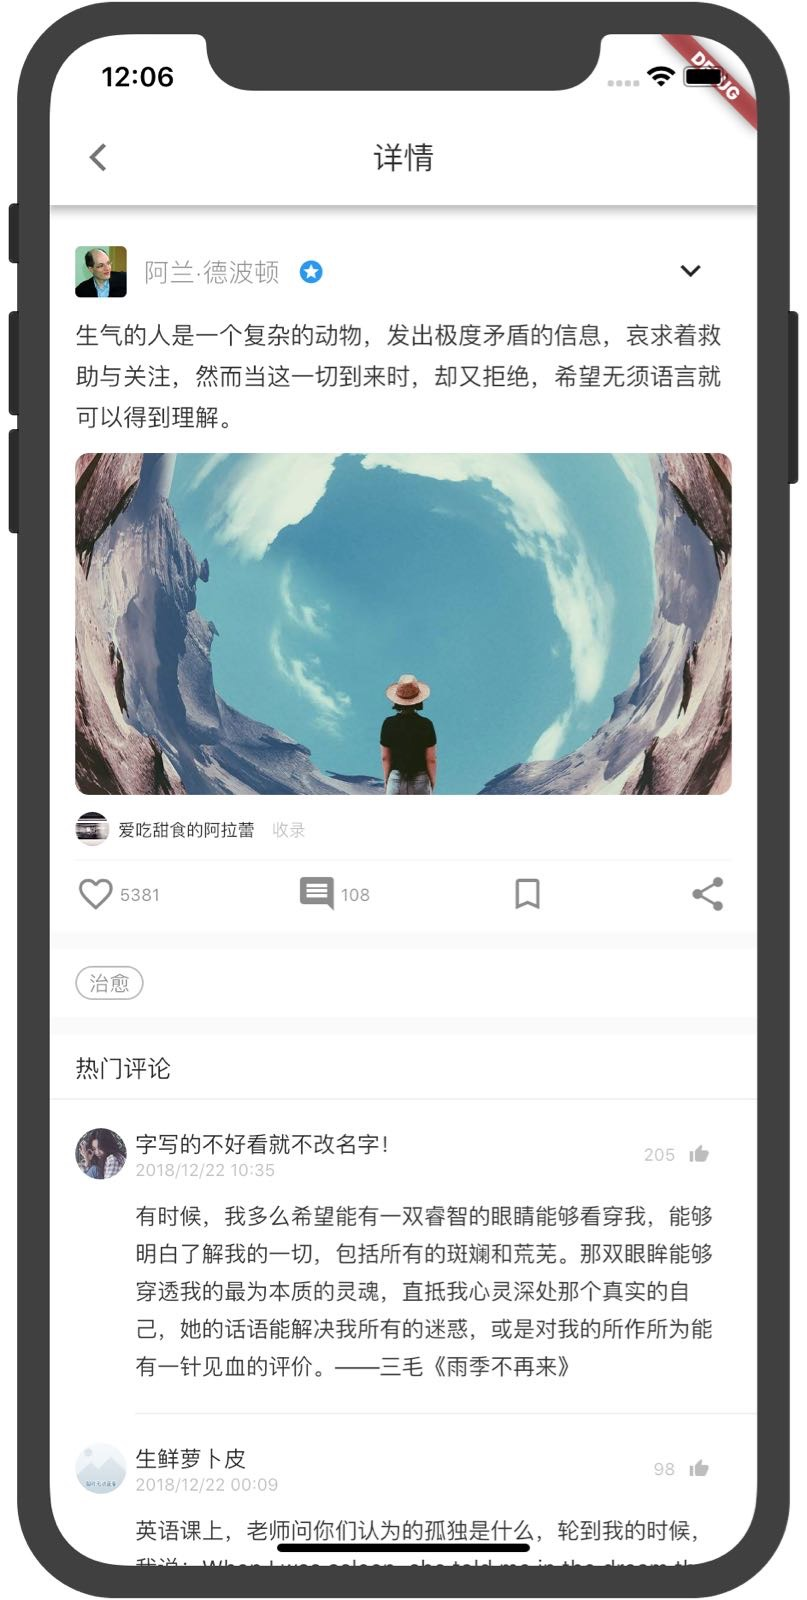
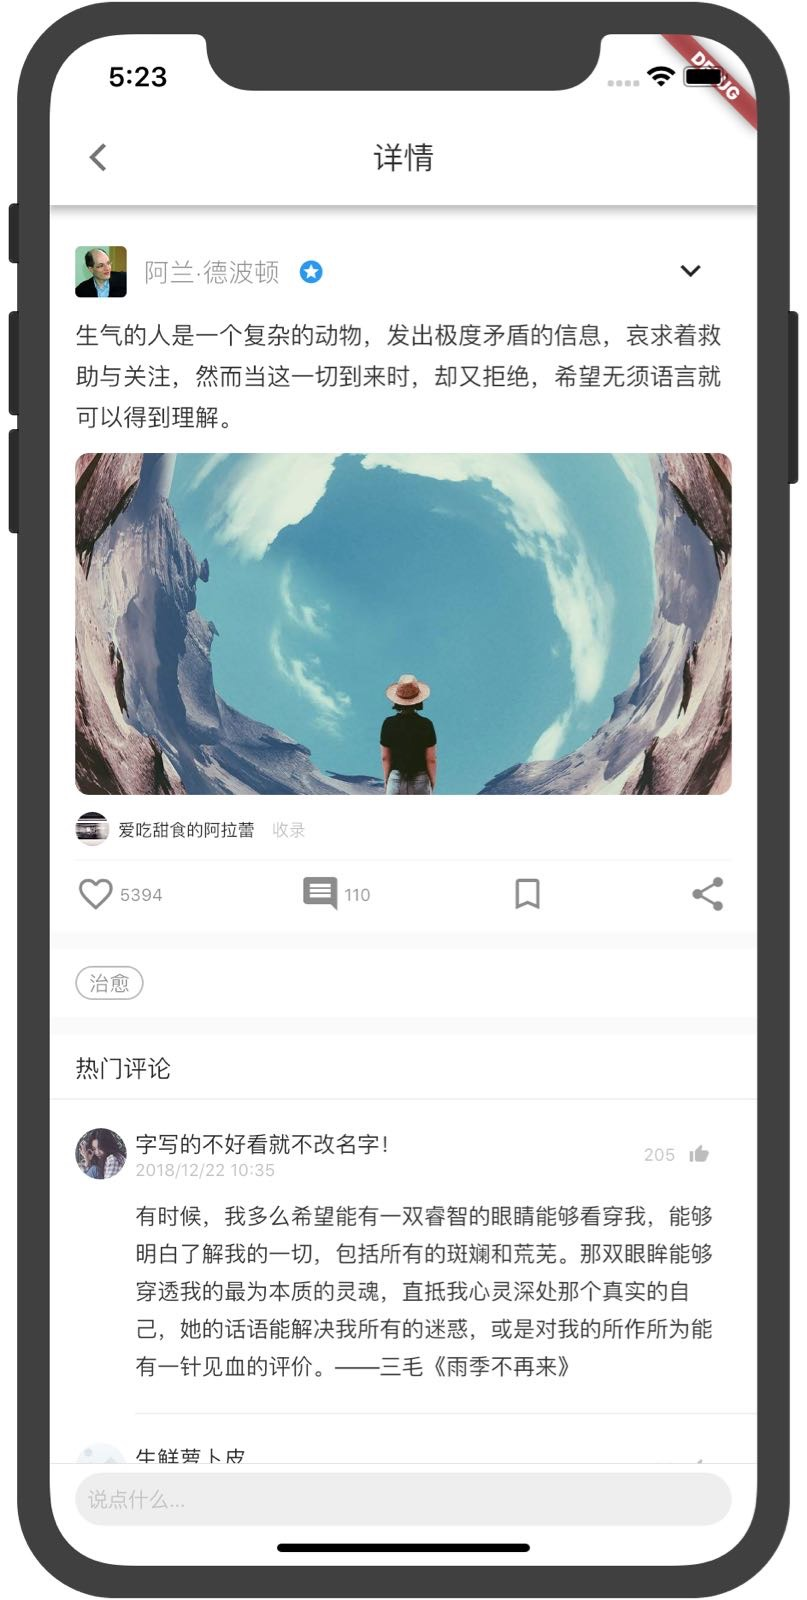
detail_page update

diff --git a/lib/index/pages/detail_page.dart b/lib/index/pages/detail_page.dart
@@ -1,4 +1,5 @@
 import 'package:flutter/material.dart';
+import 'package:flutter/cupertino.dart';
 import '../../utils/ui_util.dart';
 import '../../widgets/blank.dart';
 import '../../utils/color_util.dart';
@@ -94,29 +95,35 @@ class _DetailWidgetStateful extends State<DetailWidget> {
     JuDouModel model = snapshot.data['detail'];
     int itemCount = latest.length + 5;
     String endString = latest.isNotEmpty ? '- END -' : '快来添加第一条评论吧';
-    return Container(
-      child: ListView.builder(
-        itemBuilder: (context, index) {
-          if (index == 0)
-            return JuDouCell(
-              divider: Blank(),
-              tag: 'index_detail',
-              model: model,
-              isCell: false,
-            );
-          if (index == 1)
-            return DetailLabel(labelTitle: model?.tags[0].name ?? '爱情');
-          if (index == 2)
-            return hot.isNotEmpty ? hotCommnets(hot) : Container();
-          if (index == 3)
-            return latest.isNotEmpty ? sectionHeader('最新评论') : Container();
-          if (index == itemCount - 1) return EndCell(text: endString);
-          return CommentCell(
-              divider: index == itemCount - 2 ? Container() : Divider(),
-              model: latest[index - 4]);
-        },
-        itemCount: itemCount,
-      ),
+    return Column(
+      children: <Widget>[
+        Container(
+          width: MediaQuery.of(context).size.width,
+          height: MediaQuery.of(context).size.height - 100,
+          child: ListView.builder(
+            itemBuilder: (context, index) {
+              if (index == 0)
+                return JuDouCell(
+                  divider: Blank(),
+                  tag: 'index_detail',
+                  model: model,
+                  isCell: false,
+                );
+              if (index == 1)
+                return DetailLabel(labelTitle: model?.tags[0].name ?? '爱情');
+              if (index == 2)
+                return hot.isNotEmpty ? hotCommnets(hot) : Container();
+              if (index == 3)
+                return latest.isNotEmpty ? sectionHeader('最新评论') : Container();
+              if (index == itemCount - 1) return EndCell(text: endString);
+              return CommentCell(
+                  divider: index == itemCount - 2 ? Container() : Divider(),
+                  model: latest[index - 4]);
+            },
+            itemCount: itemCount,
+          ),
+        )
+      ],
     );
   }
 
@@ -129,8 +136,44 @@ class _DetailWidgetStateful extends State<DetailWidget> {
           appBar: AppBarUtils.appBar('详情', context),
           backgroundColor: ColorUtils.blankColor,
           body: body(context, snapshot),
+          floatingActionButton: _BottomInput(),
+          floatingActionButtonLocation:
+              FloatingActionButtonLocation.centerDocked,
         );
       },
+    );
+  }
+}
+
+class _BottomInput extends StatelessWidget {
+  @override
+  Widget build(BuildContext context) {
+    return SafeArea(
+      right: false,
+      child: Container(
+        height: 60,
+        color: Colors.white,
+        child: Column(
+          children: <Widget>[
+            Blank(height: 0.5, color: Colors.black12),
+            Padding(
+              padding: EdgeInsets.only(top: 5, left: 15, right: 15),
+              child: CupertinoTextField(
+                placeholder: '说点什么...',
+                textAlign: TextAlign.center,
+                decoration: BoxDecoration(
+                  color: ColorUtils.dividerColor,
+                  border: Border.all(color: Colors.transparent),
+                  shape: BoxShape.rectangle,
+                  borderRadius: BorderRadius.circular(20.0),
+                ),
+                style: TextStyle(
+                    height: 1, fontSize: 12, color: ColorUtils.textGreyColor),
+              ),
+            )
+          ],
+        ),
+      ),
     );
   }
 }

diff --git a/lib/discovery/widget/discovery_widget.dart b/lib/discovery/widget/discovery_widget.dart
@@ -27,13 +27,17 @@ class DiscoveryWidget extends StatefulWidget {
 
 class _DiscoveryWidgetState extends State<DiscoveryWidget>
     with SingleTickerProviderStateMixin, AutomaticKeepAliveClientMixin {
+  ScrollController _scrollController;
   TabController _controller;
   DiscoveryBloc _bloc;
+  double _offset = 0;
 
   @override
   void initState() {
     super.initState();
     _bloc = BlocProvider.of<DiscoveryBloc>(context);
+    _scrollController = ScrollController();
+    _scrollController.addListener(_scrollListener);
 
     /// TODO： Length is dynamic
     _controller = TabController(vsync: this, length: 8);
@@ -53,6 +57,10 @@ class _DiscoveryWidgetState extends State<DiscoveryWidget>
     super.dispose();
   }
 
+  _scrollListener() {
+    // print(_scrollController.position.extentInside);
+  }
+
   List<Tab> _tagWidgets(List<TagModel> tags) {
     return tags
         .map((item) => Tab(
@@ -62,20 +70,21 @@ class _DiscoveryWidgetState extends State<DiscoveryWidget>
   }
 
   List<Widget> _tabBarViews(List<TagModel> tags, List<JuDouModel> tagListData) {
-    return _tagWidgets(tags)
-        .map(
-          (item) => ListView.builder(
-                itemBuilder: (context, index) => JuDouCell(
-                      model: tagListData[index],
-                      divider: Blank(height: 10),
-                      tag: 'discovery$index',
-                      isCell: true,
-                    ),
-                itemCount: tagListData.length,
-                physics: AlwaysScrollableScrollPhysics(),
+    return _tagWidgets(tags).map(
+      (item) {
+        return ListView.builder(
+          itemBuilder: (context, index) => JuDouCell(
+                model: tagListData[index],
+                divider: Blank(height: 10),
+                tag: 'discovery$index',
+                isCell: true,
               ),
-        )
-        .toList();
+          itemCount: tagListData.length,
+          physics: AlwaysScrollableScrollPhysics(),
+          controller: _scrollController,
+        );
+      },
+    ).toList();
   }
 
   @override

diff --git a/lib/widgets/blank.dart b/lib/widgets/blank.dart
@@ -2,19 +2,17 @@ import 'package:flutter/material.dart';
 import '../utils/color_util.dart';
 
 class Blank extends StatelessWidget {
-  Blank({
-    Key key,
-    this.height = 10,
-  }) : super(key: key);
+  Blank({Key key, this.height = 10, this.color = ColorUtils.blankColor})
+      : super(key: key);
 
   final double height;
-
+  final Color color;
   @override
   Widget build(BuildContext context) {
     return SizedBox(
       width: MediaQuery.of(context).size.width,
       height: height,
-      child: Container(color: ColorUtils.blankColor),
+      child: Container(color: color),
     );
   }
 }

diff --git a/lib/widgets/end_cell.dart b/lib/widgets/end_cell.dart
@@ -9,7 +9,7 @@ class EndCell extends StatelessWidget {
   @override
   Widget build(BuildContext context) {
     return Container(
-      padding: EdgeInsets.only(top: 10, bottom: 10),
+      padding: EdgeInsets.only(top: 10, bottom: 50),
       child: Align(
         alignment: AlignmentDirectional.center,
         child: Text(

diff --git a/lib/discovery/widget/recommand_widget.dart b/lib/discovery/widget/recommand_widget.dart
@@ -8,8 +8,6 @@ class RecommandWidget extends StatefulWidget {
 class _RecommandWidgetState extends State<RecommandWidget> {
   @override
   Widget build(BuildContext context) {
-    return Center(
-      child: Text('推荐'),
-    );
+    return Container();
   }
 }
